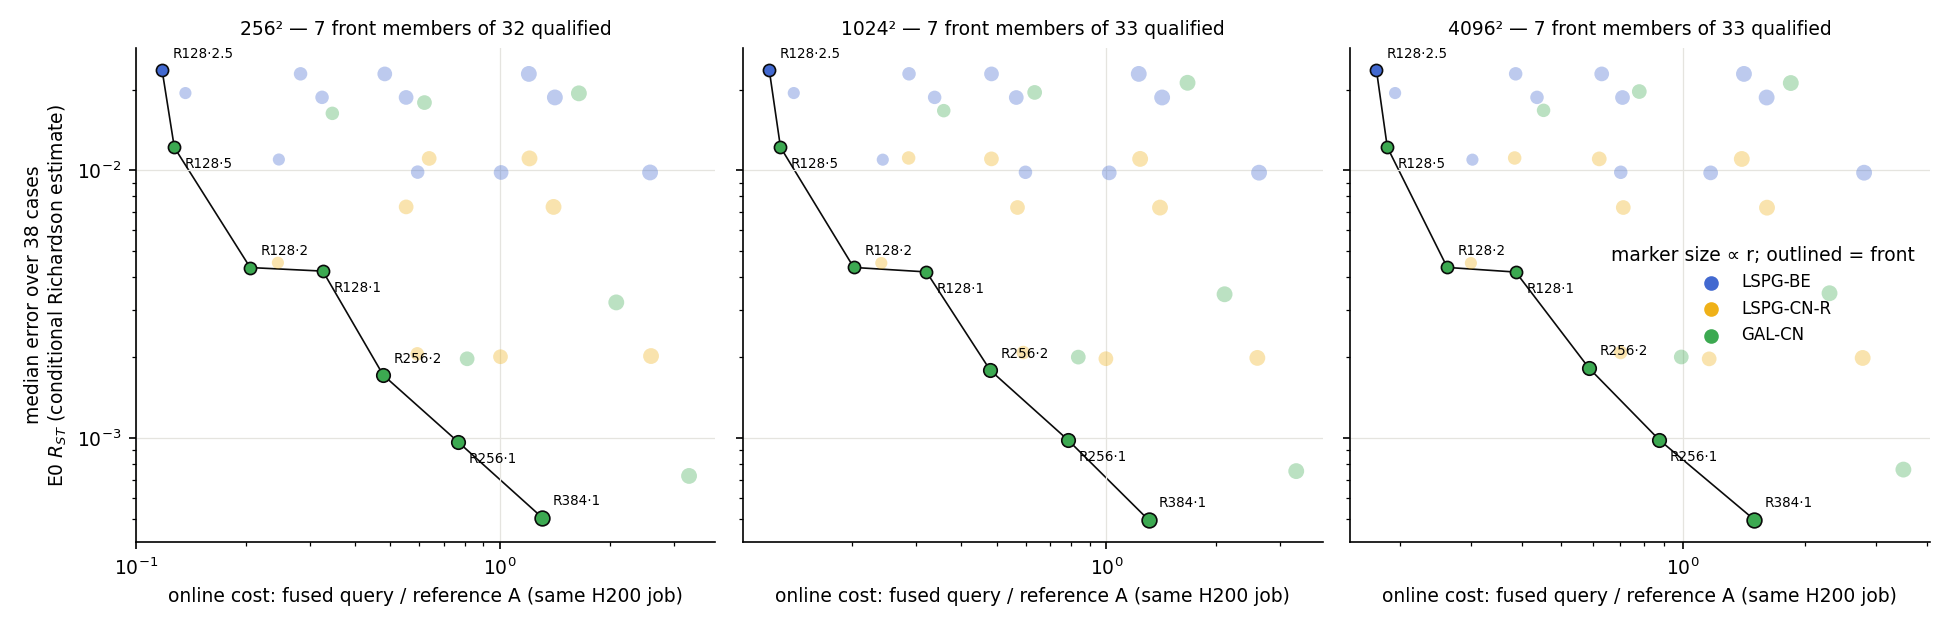
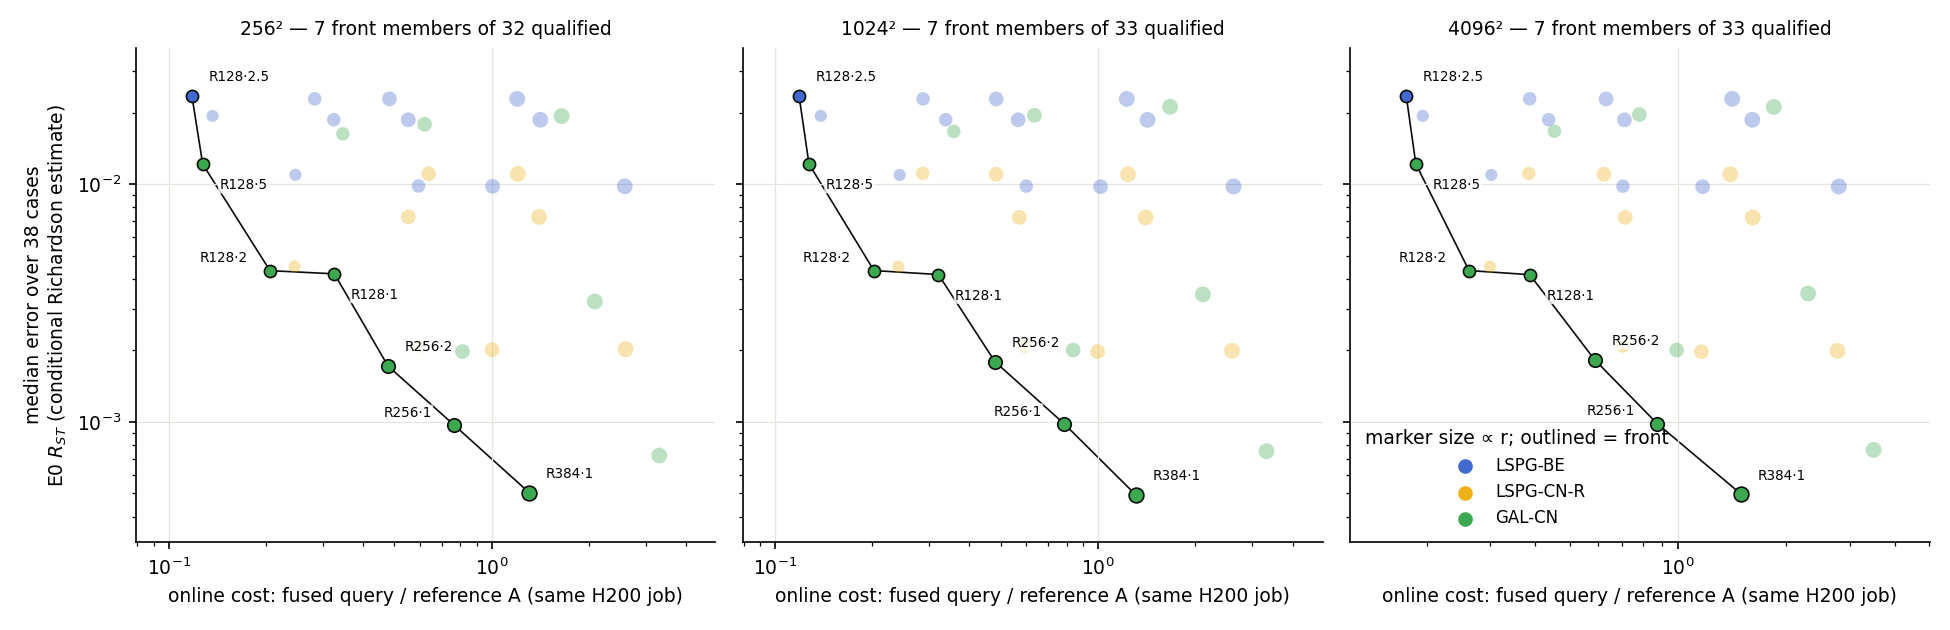
mirror of 893fdfefc: jcp-qualify: report audit 2 fixes (LaTeX glossary, BDF2/eps-bar/C_old, exploratory sensitivity wording, plot labels)

diff --git a/experiments/jcp-qualify/make_report.py b/experiments/jcp-qualify/make_report.py
@@ -78,13 +78,15 @@ def plots():
                            edgecolor='#0b0b0b' if on else 'none', linewidth=.8, zorder=3 if on else 2)
                 if on:
                     i_ = sorted(front, key=lambda kk: cand[kk]['c']).index(k)
-                    ax.annotate(f"R{c['r']}·{g(c['factor'])}", (v['c'], v[stat]), xytext=(5, 6 if i_ % 2 == 0 else -10),
-                                textcoords='offset points', fontsize=6.5)
+                    ax.annotate(f"R{c['r']}·{g(c['factor'])}", (v['c'], v[stat]), xytext=(8, 7 if i_ % 2 == 0 else -12) if i_ % 3 != 2 else (-34, 4),
+                                textcoords='offset points', fontsize=6.5,
+                                bbox=dict(boxstyle='round,pad=0.1', fc='white', ec='none', alpha=.8))
             pts = sorted((cand[k]['c'], cand[k][stat]) for k in front)
             if pts:
                 ax.plot(*zip(*pts), color='#0b0b0b', lw=.8, zorder=1)
             ax.set_xscale('log')
             ax.set_yscale('log')
+            ax.margins(.12)
             ax.set_title(f'{m}² — {len(front)} front members of {len(cand)} qualified', fontsize=9)
             ax.set_xlabel('online cost: fused query / reference A (same H200 job)')
         axs[0].set_ylabel(f'{stat} error over 38 cases\n{LBL}')
@@ -320,7 +322,7 @@ def main():
     w('')
     w('H-acc-N (AM-4 + P1 A1.9; P256 on 38 cases, P4096 on the registered 16-case subset, trend on that subset):')
     w('')
-    w('| configuration family | outcome | P4096 on 38 (sensitivity) |')
+    w('| configuration family | outcome | P4096 on 38 (exploratory sensitivity, not a verdict) |')
     w('|---|---|---|')
     for k, v in sorted(AN['B1']['h_acc_n'].items()):
         sen = (v.get('sensitivity_P4096_38') or {}).get('outcome')
@@ -422,35 +424,35 @@ def main():
     w('## Glossary')
     w('')
     for t, d in [
-        ('r (bank width)', 'number of ordered bank coefficients solved for (R′); 128, 256, 384, 512 here.'),
-        ('N, mesh', 'points per axis of the full-order grid on which the input is sampled and the output decoded (256², 1024², 4096²).'),
-        ('Δt₀, factor', 'Δt₀ = 0.005; a configuration runs at factor × Δt₀ (1, 2, and the registered larger step: 2.5 for LSPG-BE and LSPG-CN-R, 5 for GAL-CN).'),
-        ('LSPG-BE, LSPG-CN-R, GAL-CN, TH06', 'least-squares Petrov–Galerkin backward Euler; LSPG Crank–Nicolson with two backward-Euler start-up steps; Galerkin Crank–Nicolson; θ-method θ = 0.6 (a first-order control).'),
-        ('E0 R_ST, ε_ref', 'second-order space–time reference (primary); its per-case uncertainty, a conditional Richardson estimate, not a bound.'),
-        ('e, median e, worst e', '$e=\\max_{k=1..5}\\lVert u(t_k)-R(t_k)\\rVert/\\lVert R(t_0)\\rVert$ on the 257² scoring lattice (2D); median / worst over the 38 cases.'),
-        ('Q1', 'solver qualification: every run valid, ≤ 1 % of steps not certified (LSPG stationarity ratio ≤ 10⁻³; GAL relative Galerkin residual ≤ 10⁻⁸), distance to a tight solve ≤ 2.5·10⁻⁴ on every case, tight/tighter ≤ 2.5·10⁻⁵ on dev6.'),
-        ('Q2 (2D)', 'quadrature qualification on 16 cases: replay with the next finer rule within $2.5\\times10^{-4}$, own-state $\\rho\\le0.116$, and the finer rule converged against the next one.'),
-        ('Q3, cond(J)', 'conditioning: condition number of the scheme\'s step Jacobian at outputs 1, 3, 5 of the dev6 trajectories.'),
-        ('ρ', 'relative change of the tested advection vector between a rule and its successor at the configuration\'s own output states.'),
+        ('$r$ (bank width)', "number of ordered bank coefficients solved for ($R'$); 128, 256, 384, 512 here."),
+        ('$N$, mesh', 'points per axis of the full-order grid on which the input is sampled and the output decoded ($256^2$, $1024^2$, $4096^2$).'),
+        (r'$\Delta t_0$, factor', r'$\Delta t_0=0.005$; a configuration runs at factor $\times\,\Delta t_0$ (1, 2, and the registered larger step: 2.5 for LSPG-BE and LSPG-CN-R, 5 for GAL-CN).'),
+        ('LSPG-BE, LSPG-CN-R, GAL-CN, TH06, BDF2', r'least-squares Petrov–Galerkin backward Euler; LSPG Crank–Nicolson with two backward-Euler start-up steps; Galerkin Crank–Nicolson; $\theta$-method with $\theta=0.6$ (a first-order control); second-order backward differentiation (3D only).'),
+        (r'E0 $R_{ST}$, $\varepsilon_{\rm ref}$, $\bar\varepsilon_X$', r'second-order space–time reference (primary); its per-case uncertainty, a conditional Richardson estimate, not a bound; $\bar\varepsilon_X$ = median over cases of $\varepsilon_{\rm ref}$ for configuration $X$.'),
+        ('$e$, median $e$, worst $e$', r'$e=\max_{k=1..5}\lVert u(t_k)-R(t_k)\rVert/\lVert R(t_0)\rVert$ on the $257^2$ scoring lattice (2D); median / worst over the 38 cases.'),
+        ('Q1', r'solver qualification: every run valid, at most 1 % of steps not certified (LSPG stationarity ratio $\gamma\le10^{-3}$; GAL relative Galerkin residual $\eta\le10^{-8}$), distance to a tight solve $\le2.5\times10^{-4}$ on every case, tight/tighter $\le2.5\times10^{-5}$ on dev6.'),
+        ('Q2 (2D)', r'quadrature qualification on 16 cases: replay with the next finer rule within $2.5\times10^{-4}$, own-state $\rho\le0.116$, and the finer rule converged against the next one.'),
+        (r'Q3, $\mathrm{cond}(J)$', "conditioning: condition number of the scheme's step Jacobian at outputs 1, 3, 5 of the dev6 trajectories."),
+        (r'$\rho$', "relative change of the tested advection vector between a rule and its successor at the configuration's own output states."),
         ('numerically qualified', 'Q1 and Q2 pass (and the reproduction gate where one applies).'),
-        ('repro', 'registered gates: 2D, the lane\'s run equals combined\'s archived coefficients to $\\le10^{-10}$ after numerical-manifest equality; 3D, the rerun with the configuration\'s own rule equals speed3d\'s archive to $\\le10^{-10}$.'),
+        ('repro', r"registered gates: 2D, the lane's run equals combined's archived coefficients to $\le10^{-10}$ after numerical-manifest equality; 3D, the rerun with the configuration's own rule equals speed3d's archive to $\le10^{-10}$."),
         ('cost / A, evolution / A', 'paired timing ratios against the reference configuration A in the same job and GPU (full query; evolution only).'),
         ('front (median, worst)', 'qualified candidates not dominated by any other at the same mesh under the DESIGN §6 rule, for the median or the worst error.'),
-        ('role', 'pre-declared descriptive label against the same-r LSPG-BE at Δt₀: fast-equal-accuracy (cost ≤ 0.6, ties or beats both errors) or accurate-equal-cost (cost ≤ 1.1, lower median).'),
+        ('role', r'pre-declared descriptive label against the same-$r$ LSPG-BE at $\Delta t_0$: fast-equal-accuracy (cost ratio $\le0.6$, ties or beats both errors) or accurate-equal-cost (cost ratio $\le1.1$, lower median).'),
         ('H-acc-N, H-acc-r', 'mesh-independence (equivalence test of per-case differences) and rank-improvement (majority of resolved cases) hypotheses of P1, applied to each configuration family.'),
-        ('improve / worsen / tie / unqualified', 'per case in an r transition: lower / higher error beyond 2ε_ref, within 2ε_ref, or not qualified on both rungs.'),
-        ('p̂, interpretable', 'least-squares slope of log error against log step over Δt₀, Δt₀/2, Δt₀/4 versus a same-form anchor at Δt₀/64; a case is interpretable if the asymptotic, anchor, solver and quadrature checks pass.'),
-        ('q, q⁺, q⁺⁺', 'a configuration\'s quadrature rule, its successor and the check rule (next entries of the rule ladder).'),
-        ('open candidates (3D)', 'untested 3D configurations not dominated (median and worst) by any Q2-passed configuration.'),
+        ('improve / worsen / tie / unqualified', r'per case in an $r$ transition: lower / higher error beyond $2\varepsilon_{\rm ref}$, within $2\varepsilon_{\rm ref}$, or not qualified on both rungs.'),
+        (r'$\hat p$, interpretable', r'least-squares slope of $\log e$ against $\log\Delta t$ over $\Delta t_0,\Delta t_0/2,\Delta t_0/4$ versus a same-form anchor at $\Delta t_0/64$; a case is interpretable if the asymptotic, anchor, solver and quadrature checks pass.'),
+        (r'$q$, $q^+$, $q^{++}$', "a configuration's quadrature rule, its successor and the check rule (next entries of the rule ladder)."),
+        ('open candidates (3D)', 'untested 3D configurations not dominated (on both the median and the worst panel) by any Q2-passed configuration.'),
         ('fallback rule', 'the registered one-level replacement of a rule that failed Q2 by its successor.'),
         ('n', 'number of E0-eligible cases in a statistic (38 here for every configuration).'),
         ('dev6, val32, 16-case subset', 'the 6 development and 32 validation cases of the 2D cohorts; the subset is dev6 plus val32 cases 0–9.'),
-        ('P256, P4096, sensitivity (P4096 on 38)', 'H-acc-N case pairs: 256² vs 1024² on 38 cases; 4096² vs 1024² on the registered 16-case subset; the same on all 38 cases, reported without a verdict.'),
-        ('3D settings (M2_512, W256 … W1024)', 'speed3d bank / width settings: the M2 bank at r = 512, and prefixes of width 256–1024 of the W1024 bank, at 65³.'),
-        ('3D rules (glN, latN)', 'Gauss tensor rules with N³ points; rank-1 lattice rules with N points.'),
+        ('P256, P4096, sensitivity (P4096 on 38)', r'H-acc-N case pairs: $256^2$ vs $1024^2$ on 38 cases; $4096^2$ vs $1024^2$ on the registered 16-case subset. The sensitivity column re-runs the same procedure with P4096 on all 38 cases: its outcomes are exploratory, not registered verdicts.'),
+        ('3D settings (M2_512, W256 … W1024), $C_{\\rm old}$', r'speed3d bank / width settings: the M2 bank at $r=512$, and prefixes of width 256–1024 of the W1024 bank, at $65^3$; $C_{\rm old}$ = speed3d\'s reference configuration (M2_512, gl32, fixed-sweep BE, $\Delta t=0.01$) against which its screening times are ratios.'),
+        ('3D rules (glN, latN)', r'Gauss tensor rules with $N^3$ points; rank-1 lattice rules with $N$ points.'),
         ('3D solver specs (fs, qn, K, k)', 'fixed-sweep Gauss–Newton (fs) with K full sweeps per step; quasi-Newton (qn) with Jacobian refresh every k iterations; followed by scheme (BE, CN, BDF2) and step.'),
-        ('3D error and distance', 'max over the five evolved outputs of the relative ℓ² difference on the 63³ scoring lattice, normalised by the initial field; errors against E0 $R_{ST}$ over the 64 cases of cohort 923801.'),
-        ('Q2-3D', 'successor-rule replay within 2.5·10⁻⁴ on all 64 cases, own-state ρ ≤ 0.116, and the successor converged against the next rule on cases 0–7.'),
+        ('3D error and distance', r'max over the five evolved outputs of the relative $\ell^2$ difference on the $63^3$ scoring lattice, normalised by the initial field; errors against E0 $R_{ST}$ over the 64 cases of cohort 923801.'),
+        ('Q2-3D', r'successor-rule replay within $2.5\times10^{-4}$ on all 64 cases, own-state $\rho\le0.116$, and the successor converged against the next rule on cases 0–7.'),
         ('round limit, exposed', 'Q2-3D ran in at most three rounds; "exposed" candidates are untested configurations on the front of the untested-plus-passed set after the last round.'),
     ]:
         w(f'- **{t}**: {d}')

diff --git a/experiments/jcp-qualify/report.md b/experiments/jcp-qualify/report.md
@@ -183,7 +183,7 @@ Errors over the 38 dev6 + val32 cases (E0 $R_{ST}$ (conditional Richardson estim
 
 H-acc-N (AM-4 + P1 A1.9; P256 on 38 cases, P4096 on the registered 16-case subset, trend on that subset):
 
-| configuration family | outcome | P4096 on 38 (sensitivity) |
+| configuration family | outcome | P4096 on 38 (exploratory sensitivity, not a verdict) |
 |---|---|---|
 | R128 \| GAL \| CN \| 1 | pass | pass |
 | R128 \| GAL \| CN \| 2 | pass | pass |
@@ -489,33 +489,33 @@ Real-size smoke acceptance (`checks/smoke-accept.json`): 85 of 85 required contr
 
 ## Glossary
 
-- **r (bank width)**: number of ordered bank coefficients solved for (R′); 128, 256, 384, 512 here.
-- **N, mesh**: points per axis of the full-order grid on which the input is sampled and the output decoded (256², 1024², 4096²).
-- **Δt₀, factor**: Δt₀ = 0.005; a configuration runs at factor × Δt₀ (1, 2, and the registered larger step: 2.5 for LSPG-BE and LSPG-CN-R, 5 for GAL-CN).
-- **LSPG-BE, LSPG-CN-R, GAL-CN, TH06**: least-squares Petrov–Galerkin backward Euler; LSPG Crank–Nicolson with two backward-Euler start-up steps; Galerkin Crank–Nicolson; θ-method θ = 0.6 (a first-order control).
-- **E0 R_ST, ε_ref**: second-order space–time reference (primary); its per-case uncertainty, a conditional Richardson estimate, not a bound.
-- **e, median e, worst e**: $e=\max_{k=1..5}\lVert u(t_k)-R(t_k)\rVert/\lVert R(t_0)\rVert$ on the 257² scoring lattice (2D); median / worst over the 38 cases.
-- **Q1**: solver qualification: every run valid, ≤ 1 % of steps not certified (LSPG stationarity ratio ≤ 10⁻³; GAL relative Galerkin residual ≤ 10⁻⁸), distance to a tight solve ≤ 2.5·10⁻⁴ on every case, tight/tighter ≤ 2.5·10⁻⁵ on dev6.
+- **$r$ (bank width)**: number of ordered bank coefficients solved for ($R'$); 128, 256, 384, 512 here.
+- **$N$, mesh**: points per axis of the full-order grid on which the input is sampled and the output decoded ($256^2$, $1024^2$, $4096^2$).
+- **$\Delta t_0$, factor**: $\Delta t_0=0.005$; a configuration runs at factor $\times\,\Delta t_0$ (1, 2, and the registered larger step: 2.5 for LSPG-BE and LSPG-CN-R, 5 for GAL-CN).
+- **LSPG-BE, LSPG-CN-R, GAL-CN, TH06, BDF2**: least-squares Petrov–Galerkin backward Euler; LSPG Crank–Nicolson with two backward-Euler start-up steps; Galerkin Crank–Nicolson; $\theta$-method with $\theta=0.6$ (a first-order control); second-order backward differentiation (3D only).
+- **E0 $R_{ST}$, $\varepsilon_{\rm ref}$, $\bar\varepsilon_X$**: second-order space–time reference (primary); its per-case uncertainty, a conditional Richardson estimate, not a bound; $\bar\varepsilon_X$ = median over cases of $\varepsilon_{\rm ref}$ for configuration $X$.
+- **$e$, median $e$, worst $e$**: $e=\max_{k=1..5}\lVert u(t_k)-R(t_k)\rVert/\lVert R(t_0)\rVert$ on the $257^2$ scoring lattice (2D); median / worst over the 38 cases.
+- **Q1**: solver qualification: every run valid, at most 1 % of steps not certified (LSPG stationarity ratio $\gamma\le10^{-3}$; GAL relative Galerkin residual $\eta\le10^{-8}$), distance to a tight solve $\le2.5\times10^{-4}$ on every case, tight/tighter $\le2.5\times10^{-5}$ on dev6.
 - **Q2 (2D)**: quadrature qualification on 16 cases: replay with the next finer rule within $2.5\times10^{-4}$, own-state $\rho\le0.116$, and the finer rule converged against the next one.
-- **Q3, cond(J)**: conditioning: condition number of the scheme's step Jacobian at outputs 1, 3, 5 of the dev6 trajectories.
-- **ρ**: relative change of the tested advection vector between a rule and its successor at the configuration's own output states.
+- **Q3, $\mathrm{cond}(J)$**: conditioning: condition number of the scheme's step Jacobian at outputs 1, 3, 5 of the dev6 trajectories.
+- **$\rho$**: relative change of the tested advection vector between a rule and its successor at the configuration's own output states.
 - **numerically qualified**: Q1 and Q2 pass (and the reproduction gate where one applies).
 - **repro**: registered gates: 2D, the lane's run equals combined's archived coefficients to $\le10^{-10}$ after numerical-manifest equality; 3D, the rerun with the configuration's own rule equals speed3d's archive to $\le10^{-10}$.
 - **cost / A, evolution / A**: paired timing ratios against the reference configuration A in the same job and GPU (full query; evolution only).
 - **front (median, worst)**: qualified candidates not dominated by any other at the same mesh under the DESIGN §6 rule, for the median or the worst error.
-- **role**: pre-declared descriptive label against the same-r LSPG-BE at Δt₀: fast-equal-accuracy (cost ≤ 0.6, ties or beats both errors) or accurate-equal-cost (cost ≤ 1.1, lower median).
+- **role**: pre-declared descriptive label against the same-$r$ LSPG-BE at $\Delta t_0$: fast-equal-accuracy (cost ratio $\le0.6$, ties or beats both errors) or accurate-equal-cost (cost ratio $\le1.1$, lower median).
 - **H-acc-N, H-acc-r**: mesh-independence (equivalence test of per-case differences) and rank-improvement (majority of resolved cases) hypotheses of P1, applied to each configuration family.
-- **improve / worsen / tie / unqualified**: per case in an r transition: lower / higher error beyond 2ε_ref, within 2ε_ref, or not qualified on both rungs.
-- **p̂, interpretable**: least-squares slope of log error against log step over Δt₀, Δt₀/2, Δt₀/4 versus a same-form anchor at Δt₀/64; a case is interpretable if the asymptotic, anchor, solver and quadrature checks pass.
-- **q, q⁺, q⁺⁺**: a configuration's quadrature rule, its successor and the check rule (next entries of the rule ladder).
-- **open candidates (3D)**: untested 3D configurations not dominated (median and worst) by any Q2-passed configuration.
+- **improve / worsen / tie / unqualified**: per case in an $r$ transition: lower / higher error beyond $2\varepsilon_{\rm ref}$, within $2\varepsilon_{\rm ref}$, or not qualified on both rungs.
+- **$\hat p$, interpretable**: least-squares slope of $\log e$ against $\log\Delta t$ over $\Delta t_0,\Delta t_0/2,\Delta t_0/4$ versus a same-form anchor at $\Delta t_0/64$; a case is interpretable if the asymptotic, anchor, solver and quadrature checks pass.
+- **$q$, $q^+$, $q^{++}$**: a configuration's quadrature rule, its successor and the check rule (next entries of the rule ladder).
+- **open candidates (3D)**: untested 3D configurations not dominated (on both the median and the worst panel) by any Q2-passed configuration.
 - **fallback rule**: the registered one-level replacement of a rule that failed Q2 by its successor.
 - **n**: number of E0-eligible cases in a statistic (38 here for every configuration).
 - **dev6, val32, 16-case subset**: the 6 development and 32 validation cases of the 2D cohorts; the subset is dev6 plus val32 cases 0–9.
-- **P256, P4096, sensitivity (P4096 on 38)**: H-acc-N case pairs: 256² vs 1024² on 38 cases; 4096² vs 1024² on the registered 16-case subset; the same on all 38 cases, reported without a verdict.
-- **3D settings (M2_512, W256 … W1024)**: speed3d bank / width settings: the M2 bank at r = 512, and prefixes of width 256–1024 of the W1024 bank, at 65³.
-- **3D rules (glN, latN)**: Gauss tensor rules with N³ points; rank-1 lattice rules with N points.
+- **P256, P4096, sensitivity (P4096 on 38)**: H-acc-N case pairs: $256^2$ vs $1024^2$ on 38 cases; $4096^2$ vs $1024^2$ on the registered 16-case subset. The sensitivity column re-runs the same procedure with P4096 on all 38 cases: its outcomes are exploratory, not registered verdicts.
+- **3D settings (M2_512, W256 … W1024), $C_{\rm old}$**: speed3d bank / width settings: the M2 bank at $r=512$, and prefixes of width 256–1024 of the W1024 bank, at $65^3$; $C_{\rm old}$ = speed3d\'s reference configuration (M2_512, gl32, fixed-sweep BE, $\Delta t=0.01$) against which its screening times are ratios.
+- **3D rules (glN, latN)**: Gauss tensor rules with $N^3$ points; rank-1 lattice rules with $N$ points.
 - **3D solver specs (fs, qn, K, k)**: fixed-sweep Gauss–Newton (fs) with K full sweeps per step; quasi-Newton (qn) with Jacobian refresh every k iterations; followed by scheme (BE, CN, BDF2) and step.
-- **3D error and distance**: max over the five evolved outputs of the relative ℓ² difference on the 63³ scoring lattice, normalised by the initial field; errors against E0 $R_{ST}$ over the 64 cases of cohort 923801.
-- **Q2-3D**: successor-rule replay within 2.5·10⁻⁴ on all 64 cases, own-state ρ ≤ 0.116, and the successor converged against the next rule on cases 0–7.
+- **3D error and distance**: max over the five evolved outputs of the relative $\ell^2$ difference on the $63^3$ scoring lattice, normalised by the initial field; errors against E0 $R_{ST}$ over the 64 cases of cohort 923801.
+- **Q2-3D**: successor-rule replay within $2.5\times10^{-4}$ on all 64 cases, own-state $\rho\le0.116$, and the successor converged against the next rule on cases 0–7.
 - **round limit, exposed**: Q2-3D ran in at most three rounds; "exposed" candidates are untested configurations on the front of the untested-plus-passed set after the last round.

diff --git a/experiments/jcp-qualify/audits/codex-report-2.md b/experiments/jcp-qualify/audits/codex-report-2.md
@@ -1,0 +1,19 @@
+**Overall: NEEDS-FIX — numerical tables check out; presentation fixes remain.**
+
+| Previous must-fix | Verdict | Evidence |
+|---|---|---|
+| Dominance formula | **RESOLVED** | `report.md:269` now gives the registered, error-scaled tolerance formula. |
+| Stopping disclosure | **RESOLVED** | Report summary and 3D section disclose three rounds exhausted and 16 exposed candidates. `analysis.json` records `round_limit_reached: true` and their identities; EXPORT matches, including 146 open candidates. |
+| Adjacent E0 caveats | **RESOLVED** | Conditional wording accompanies summary accuracies, each B5 table, and the inspected `unqualified.png`. |
+| Plots | **PARTIALLY** | Inspected all eight PNGs. Missing error-versus-N and conditioning-versus-r plots are present; unqualified annotations fixed. In `front2d_worst.png`, the 4096² R384·1 label touches the bottom axis; R128 labels remain crowded against points/lines. Move annotations clear. |
+| Glossary/LaTeX | **PARTIALLY** | Requested cohort, solver, rule and dimensional definitions added; temporal-range labels converted. Remaining issues below. |
+
+Remaining glossary fixes in [report.md](/home/tahmid/Dev/Tunable-NM-ROM-Claude/worktrees/2026-10-18-jcp-qualify/experiments/jcp-qualify/report.md:490):
+
+- **Line 515 contradicts the table:** sensitivity is described as “reported without a verdict,” but lines 188–217 print pass/inconclusive outcomes. Distinguish exploratory outcomes from registered verdicts.
+- **LaTeX remains unfinished:** formulas/inequalities at lines 494–495, 498, 506, 508–509 and 520 still use Unicode/plain text.
+- Define **BDF2**, **$\bar\varepsilon_X$**, and **$C_{\rm old}$**; these remain unexplained.
+
+Independent read-only comparison matched **329 result rows and 16 job rows** to source JSONs. EXPORT’s configuration and 3D projections match analysis; frozen FRONT-2D hash matches. No untraceable empirical number or conflation of numerical qualification, role and front membership found. Mermaid is present and color-coded.
+
+No files changed, scripts regenerated, scratch written, GPU used or cluster jobs launched.
